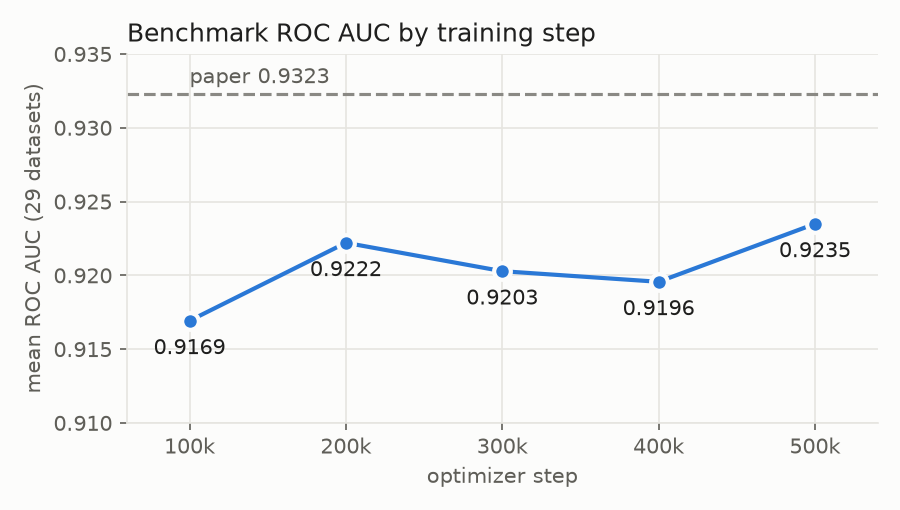
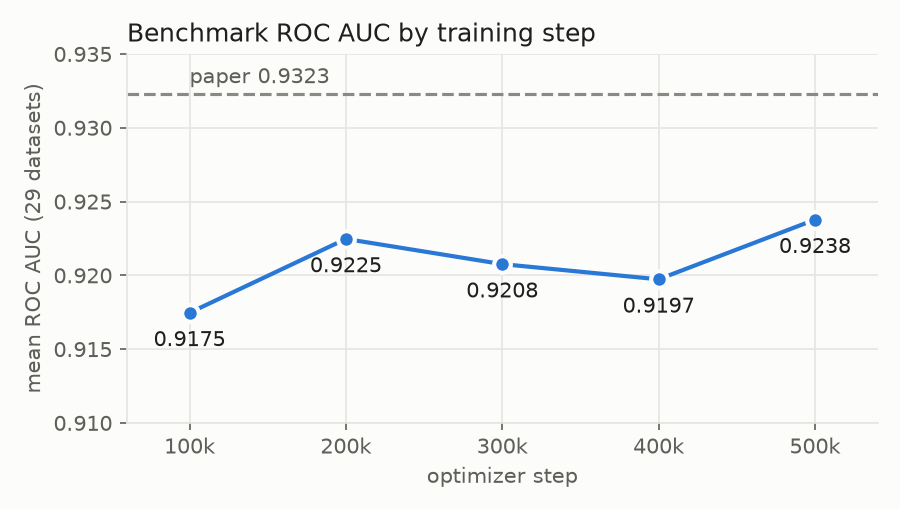
tabpfn_v2: one-hot encoding of categorical columns in inference, default all (#21)
Adds the paper's sixth per-member preprocessing step as an inference option (off/power/all), with all as the default for both estimators and the expanded width capped at 160 columns. The benchmark reports the default mode; --one-hot off,power,all adds per-mode results without choosing among them on the test folds. The v2 classifier card is re-evaluated with one_hot=all (500k: 0.9238).

Changed region(s): [[0.2489, 0.4412, 0.8089, 0.6176], [0.8089, 0.4118, 0.9644, 0.5294], [0.1556, 0.5882, 0.2489, 0.7059]]

diff --git a/src/minipfn/tabpfn_v2/inference.py b/src/minipfn/tabpfn_v2/inference.py
@@ -11,6 +11,15 @@
 - 전처리 두 가지를 번갈아: (1) 분위수 변환한 열을 원래 열 옆에 붙이고 SVD 성분을 덧붙임,
   범주형 열은 번호를 섞음 (2) Yeo-Johnson power transform
 - 수치형 열에서 평균으로부터 표준편차 12배 밖의 값은 그 경계로 자른다
+- (`one_hot`을 주면) 범주형 열을 one-hot으로 펼친다. 논문 전처리 목록의 6번인데, 어느 멤버에 어떤
+  범주까지 쓰는지는 적혀 있지 않아 여기서 정한다: `"power"`는 power 멤버만(분위수 멤버는 번호 섞기를
+  그대로), `"all"`은 모든 멤버. 범주가 `MAX_ONE_HOT_CATEGORIES`개 넘는 열은 번호로 둔다.
+  펼친 뒤 열 수가 `MAX_ONE_HOT_WIDTH`(prior의 최대 feature 수)를 넘으면 범주가 많은 열부터 번호로
+  되돌린다. 범주가 2개면 열 하나(0/1)로 둔다. 결측과 학습에 없던 범주(번호로 바꿀 때 결측이 된다)는
+  NaN. 기본값 `DEFAULT_ONE_HOT`은 분류·회귀 모두 `"all"`이다. 세 모드(off·power·all)를 benchmark에서
+  견줬을 때 분류는 suite 평균 ROC AUC(500k 0.9235 → 0.9238), 회귀는 one-hot으로 결과가 바뀌는
+  11개에서 off 대비 RMSE 비율의 기하평균(QK-clip 200k, power 0.964, all 0.958)이 가장 좋았다.
+  회귀의 neg RMSE 단순 평균은 RMSE가 수만인 MIP-2016 하나가 정해서 기준으로 쓰지 않았다
 - 분류: logit을 온도 0.9로 나눠 softmax한 뒤 멤버 평균
 - 회귀: y를 z-정규화하고, 멤버 절반은 y에도 power transform을 한다. 예측 분포는 구간 경계만
   역변환해 공통 경계로 옮긴 뒤 평균한다
@@ -46,8 +55,13 @@ from sklearn.preprocessing import (
 )
 
 from minipfn.tabpfn_v2.model import TabPFNv2
+from minipfn.tabpfn_v2.prior import MAX_FEATURES
 
 OUTLIER_SIGMA = 12.0
+MAX_ONE_HOT_CATEGORIES = 20  # benchmark의 socmob(17개)은 펼치고 colleges(수천 개)는 번호로 둔다
+MAX_ONE_HOT_WIDTH = MAX_FEATURES  # 펼친 뒤 열 수의 상한: 학습 때 본 feature 수를 넘지 않게
+ONE_HOT_MODES = ("off", "power", "all")
+DEFAULT_ONE_HOT = "all"
 SOFTMAX_TEMPERATURE = 0.9
 
 
@@ -76,12 +90,34 @@ def _apply_encoder(df: pd.DataFrame, cat_ix: list[int], encoder: Any) -> np.ndar
     return out
 
 
+def _one_hot_width(n: int) -> int:
+    return 1 if n == 2 else n  # 범주 2개는 0/1 열 하나
+
+
+def _one_hot_sizes(n_categories: dict[int, int], n_features: int) -> dict[int, int]:
+    """one-hot으로 펼칠 열과 그 범주 수.
+
+    범주가 `MAX_ONE_HOT_CATEGORIES`개 이하인 열을 펼친다. 펼친 뒤 열 수(원래 열 기준)가
+    `MAX_ONE_HOT_WIDTH`를 넘으면 범주가 많은 열부터 번호로 되돌린다 (열 수가 늘지 않는 범주 2개 이하
+    열은 그대로 펼친다).
+    """
+    sizes = {i: n for i, n in n_categories.items() if n <= MAX_ONE_HOT_CATEGORIES}
+    width = n_features + sum(_one_hot_width(n) - 1 for n in sizes.values())
+    wide = [i for i in sizes if _one_hot_width(sizes[i]) > 1]
+    for i in sorted(wide, key=lambda i: -sizes[i]):
+        if width <= MAX_ONE_HOT_WIDTH:
+            break
+        width -= _one_hot_width(sizes.pop(i)) - 1
+    return sizes
+
+
 @dataclass
 class _Member:
     kind: str  # "quantile" | "power"
     class_permutation: np.ndarray | None
     target_power: bool
     seed: int
+    one_hot: bool = False
 
 
 class _MemberPreprocessor:
@@ -100,12 +136,17 @@ class _MemberPreprocessor:
         X = self._clip(X)
         num_ix = [i for i in range(X.shape[1]) if i not in self.cat_ix]
         self.num_ix = num_ix
+        # 범주형 열의 번호는 0부터 (학습 행의 범주 수 - 1)까지다
+        n_categories = {
+            i: int(np.nanmax(X[:, i])) + 1 if np.isfinite(X[:, i]).any() else 1 for i in self.cat_ix
+        }
+        self.one_hot_sizes = _one_hot_sizes(n_categories, X.shape[1]) if self.member.one_hot else {}
         self.cat_maps = {}
         if self.member.kind == "quantile":
-            # 범주형 열: 번호를 섞는다 (분위수 멤버만)
+            # 범주형 열: 번호를 섞는다 (분위수 멤버만, one-hot으로 펼치는 열은 빼고)
             for i in self.cat_ix:
-                n = int(np.nanmax(X[:, i])) + 1 if np.isfinite(X[:, i]).any() else 1
-                self.cat_maps[i] = rng.permutation(n)
+                if i not in self.one_hot_sizes:
+                    self.cat_maps[i] = rng.permutation(n_categories[i])
             n_quantiles = max(min(X.shape[0] // 10, 1000), 2)
             self.transformer = QuantileTransformer(
                 n_quantiles=n_quantiles, random_state=self.member.seed
@@ -144,8 +185,24 @@ class _MemberPreprocessor:
             with np.errstate(all="ignore"):
                 transformed[:, self.num_ix] = self.transformer.transform(X[:, self.num_ix])
         if self.member.kind == "quantile":
-            return np.concatenate([X, transformed[:, self.num_ix]], axis=1)  # 원래 열 + 분위수 열
-        return transformed
+            out = np.concatenate([X, transformed[:, self.num_ix]], axis=1)  # 원래 열 + 분위수 열
+        else:
+            out = transformed
+        if not self.one_hot_sizes:
+            return out
+        # 번호 열을 빼고 one-hot 열을 뒤에 붙인다 (앞 d개 열이 원래 열 순서라 위치가 같다)
+        keep = [j for j in range(out.shape[1]) if j not in self.one_hot_sizes]
+        blocks = [self._one_hot(X[:, i], n) for i, n in self.one_hot_sizes.items()]
+        return np.concatenate([out[:, keep], *blocks], axis=1)
+
+    @staticmethod
+    def _one_hot(codes: np.ndarray, n: int) -> np.ndarray:
+        # 결측과 범위 밖 번호는 NaN: 번호 열과 똑같이 결측으로 본다
+        known = np.isfinite(codes) & (codes >= 0) & (codes < n)
+        block = np.full((len(codes), n), np.nan)
+        block[known] = 0.0
+        block[np.flatnonzero(known), codes[known].astype(int)] = 1.0
+        return block[:, 1:] if n == 2 else block
 
     def transform(self, X: np.ndarray, rng: np.random.Generator) -> np.ndarray:
         base = self._base(self._clip(X))
@@ -163,9 +220,13 @@ class _Base:
         *,
         n_estimators: int,
         categorical_features_indices: list[int] | None = None,
+        one_hot: str = DEFAULT_ONE_HOT,
         device: str = "cpu",
         random_state: int = 0,
     ) -> None:
+        if one_hot not in ONE_HOT_MODES:
+            raise ValueError(f"one_hot은 {ONE_HOT_MODES} 가운데 하나여야 한다: {one_hot}")
+        self.one_hot = one_hot
         self.model = model
         self.n_estimators = n_estimators
         self.categorical_features_indices = categorical_features_indices
@@ -173,6 +234,8 @@ class _Base:
         self.random_state = random_state
 
     def _fit_members(self, X: Any, members: list[_Member]) -> None:
+        for m in members:
+            m.one_hot = self.one_hot == "all" or (self.one_hot == "power" and m.kind == "power")
         X_num, self.cat_ix_, self.encoder_ = _to_numeric(X, self.categorical_features_indices)
         self.preprocessors_ = [_MemberPreprocessor(m, self.cat_ix_).fit(X_num) for m in members]
         # 학습 행의 변환 결과는 바뀌지 않으므로 멤버마다 한 번만 계산해 둔다
@@ -283,7 +346,12 @@ def _bucket_values(borders: torch.Tensor, u_train: np.ndarray) -> np.ndarray:
 
 class TabPFNv2Regressor(_Base):
     def __init__(
-        self, model: TabPFNv2, borders: torch.Tensor, *, n_estimators: int = 8, **kwargs: Any
+        self,
+        model: TabPFNv2,
+        borders: torch.Tensor,
+        *,
+        n_estimators: int = 8,
+        **kwargs: Any,
     ) -> None:
         super().__init__(model, n_estimators=n_estimators, **kwargs)
         self.borders = borders.float().cpu()  # 계산할 때만 장치로 옮기고, 결과는 CPU로 돌려준다

diff --git a/tests/test_tabpfn_v2.py b/tests/test_tabpfn_v2.py
@@ -2,6 +2,7 @@
 
 import numpy as np
 import pandas as pd
+import pytest
 import torch
 from sklearn.datasets import load_breast_cancer, load_diabetes
 
@@ -175,6 +176,67 @@ def test_outlier_clip_leaves_categorical_codes_alone():
     assert prep.upper[0] == np.inf and len(prep.cat_maps[0]) == 51
     codes = prep._base(prep._clip(x))[:, 0]
     assert len(np.unique(codes[:3])) == 1 and codes[0] != codes[3]  # 50은 다른 범주와 섞이지 않는다
+
+
+def test_one_hot_expands_small_categorical_columns_only():
+    from minipfn.tabpfn_v2.inference import _Member, _MemberPreprocessor
+
+    rng = np.random.default_rng(0)
+    x = np.stack(
+        [
+            rng.integers(0, 3, 200),
+            rng.integers(0, 2, 200),
+            rng.integers(0, 30, 200),
+            rng.normal(size=200),
+        ],
+        axis=1,
+    ).astype(float)
+    x[0, 0] = np.nan
+    member = _Member(kind="power", class_permutation=None, target_power=False, seed=0, one_hot=True)
+    prep = _MemberPreprocessor(member, cat_ix=[0, 1, 2]).fit(x)
+    assert prep.one_hot_sizes == {0: 3, 1: 2}  # 범주 30개 열은 번호로 둔다
+    base = prep._base(prep._clip(x))
+    assert base.shape[1] == 2 + 3 + 1  # 번호 열 1개 + 수치 1개, 3범주 → 3열, 2범주 → 1열
+    block = base[:, 2:5]
+    assert np.isnan(block[0]).all()  # 결측은 NaN
+    assert np.array_equal(block[1:].argmax(1), x[1:, 0]) and (block[1:].sum(1) == 1).all()
+    assert np.array_equal(base[:, 5], x[:, 1])
+    out = prep.transform(x, np.random.default_rng(1))
+    assert out.shape == (200, base.shape[1] + 1)  # 샘플 식별자 열
+
+
+def test_one_hot_width_is_capped_by_reverting_the_widest_columns():
+    from minipfn.tabpfn_v2.inference import MAX_ONE_HOT_WIDTH, _one_hot_sizes
+
+    # 범주 20개 열 8개 + 범주 2개 열 10개 + 수치 열 2개: 펼치면 2 + 160 + 10 = 172열
+    n_categories = {i: 20 for i in range(8)} | {i: 2 for i in range(8, 18)}
+    sizes = _one_hot_sizes(n_categories, n_features=20)
+    assert sum(1 if n == 2 else n for n in sizes.values()) + 2 <= MAX_ONE_HOT_WIDTH
+    assert len([n for n in sizes.values() if n == 20]) == 7 and 0 not in sizes  # 하나만 되돌린다
+    assert all(i in sizes for i in range(8, 18))  # 열 수가 늘지 않는 2범주 열은 그대로
+    # 원래 열이 이미 상한보다 많으면 열 수를 늘리는 펼침은 하지 않는다
+    assert _one_hot_sizes({0: 5, 1: 2}, n_features=MAX_ONE_HOT_WIDTH + 1) == {1: 2}
+
+
+def test_one_hot_out_of_range_codes_are_missing():
+    from minipfn.tabpfn_v2.inference import _MemberPreprocessor
+
+    block = _MemberPreprocessor._one_hot(np.array([0.0, 2.0, 3.0, np.nan, -1.0]), 3)
+    assert np.array_equal(block[:2], [[1, 0, 0], [0, 0, 1]])
+    assert np.isnan(block[2:]).all()  # 범위 밖과 결측은 번호 열처럼 결측
+
+
+@pytest.mark.parametrize("one_hot", ["off", "power", "all"])
+def test_estimators_run_with_one_hot(one_hot):
+    rng = np.random.default_rng(0)
+    df = pd.DataFrame({"a": rng.choice(list("xyz"), 80), "b": rng.normal(size=80)})
+    y = (df["b"] > 0).astype(int).to_numpy()
+    clf = TabPFNv2Classifier(_tiny_model(), one_hot=one_hot).fit(df[:60], y[:60])
+    assert clf.predict_proba(df[60:]).shape == (20, 2)
+    reg = TabPFNv2Regressor(_tiny_model(n_out=32), torch.linspace(-4, 4, 33), one_hot=one_hot)
+    assert reg.fit(df[:60], df["b"][:60]).predict(df[60:]).shape == (20,)
+    with pytest.raises(ValueError, match="one_hot"):
+        TabPFNv2Classifier(_tiny_model(), one_hot="half")
 
 
 def test_predict_is_repeatable_and_regressor_keeps_borders_on_cpu():

diff --git a/tests/test_tabpfn_v2_benchmark.py b/tests/test_tabpfn_v2_benchmark.py
@@ -39,3 +39,32 @@ def test_unknown_task_ids_are_reported():
     assert script.selected_tasks(argparse.Namespace(suite="all", tasks="359955")) == [
         ("classification", 359955)
     ]
+
+
+def test_one_hot_modes_are_parsed_and_headline_is_the_default_mode():
+    script = _eval_script()
+    assert script.parse_args([]).one_hot == ["all"]
+    assert script.parse_args(["--one-hot", "all,off,all"]).one_hot == ["all", "off"]
+    with pytest.raises(SystemExit):
+        script.parse_args(["--one-hot", "half"])
+    assert script.headline_mode(["off", "power", "all"]) == "all"  # 고르지 않고 기본값
+    assert script.headline_mode(["power", "off"]) == "power"
+
+
+def test_expands_one_hot_needs_a_small_categorical_column():
+    import types
+
+    import pandas as pd
+
+    script = _eval_script()
+
+    def task(X, cat):
+        return types.SimpleNamespace(X=pd.DataFrame(X), categorical_indices=cat)
+
+    many = [f"c{i}" for i in range(30)]
+    assert not script.expands_one_hot(task({"a": [1.0] * 30}, []))
+    assert script.expands_one_hot(task({"a": [0, 1, 2] * 10}, [0]))
+    assert script.expands_one_hot(task({"a": list("xyz") * 10}, []))  # 문자열 열도 범주형
+    assert not script.expands_one_hot(task({"a": many}, []))  # 범주가 많으면 번호로 둔다
+    wide = {f"c{i}": [0, 1, 2] * 10 for i in range(200)}
+    assert not script.expands_one_hot(task(wide, list(range(200))))  # 폭 상한에 걸려 펼치지 않는다

diff --git a/hub/minipfn-tabpfn-v2-classifier/README.md b/hub/minipfn-tabpfn-v2-classifier/README.md
@@ -28,7 +28,7 @@ This is not the official TabPFN v2 checkpoint, and it uses no official code or w
   - Beta(0.95, 8.0) features scaled to 1–160
   - fewer than 75,000 cells per table
   - in 30% of the tables, values go missing at random at a rate of 0–30%
-- Inference (paper defaults): an ensemble of 4 members. Each member shuffles features and classes and adds a random row-identifier column. Members alternate between quantile features plus SVD components and a Yeo-Johnson power transform. Softmax temperature is 0.9.
+- Inference (paper defaults): an ensemble of 4 members. Each member shuffles features and classes and adds a random row-identifier column. Members alternate between quantile features plus SVD components and a Yeo-Johnson power transform. Categorical columns with at most 20 categories are one-hot encoded in every member (`one_hot="all"`, the default), as long as the table stays within 160 columns. Softmax temperature is 0.9.
 
 ## Training
 
@@ -44,16 +44,16 @@ Figures and numbers on this card come from checkpoint `runs:/a1df9e34774d49e7869
 
 ## Results
 
-The benchmark is the paper's 29 AMLB classification datasets. Each score is the mean ROC AUC over the 10 OpenML folds. Paper values come from Supplementary Table 1 (TabPFN v2, default settings).
+The benchmark is the paper's 29 AMLB classification datasets. Each score is the mean ROC AUC over the 10 OpenML folds. Paper values come from Supplementary Table 1 (TabPFN v2, default settings). All figures use the default inference settings (`one_hot="all"`). The last column keeps categorical columns as ordinal codes (`one_hot="off"`); only the 9 datasets with categorical columns differ.
 
-| Checkpoint | Mean ROC AUC |
-| --- | --- |
-| 100k steps | 0.9169 |
-| 200k steps | 0.9222 |
-| 300k steps | 0.9203 |
-| 400k steps | 0.9196 |
-| **500k steps (this model)** | **0.9235** |
-| Paper | 0.9323 |
+| Checkpoint | Mean ROC AUC | With `one_hot="off"` |
+| --- | --- | --- |
+| 100k steps | 0.9175 | 0.9169 |
+| 200k steps | 0.9225 | 0.9222 |
+| 300k steps | 0.9208 | 0.9203 |
+| 400k steps | 0.9197 | 0.9196 |
+| **500k steps (this model)** | **0.9238** | 0.9235 |
+| Paper | 0.9323 | |
 
 ![Benchmark ROC AUC by step](images/benchmark_by_step.png)
 
@@ -97,6 +97,8 @@ proba = clf.predict_proba(x_test)  # (n_test, n_classes), columns in clf.classes
 uv run python scripts/tabpfn_v2/eval.py --suite classification \
   --classifier-path hf://aiden-jeon/minipfn-tabpfn-v2-classifier
 ```
+
+Add `--one-hot off,power,all` to also score the other one-hot modes. The headline numbers stay those of the default mode.
 
 ## Files
 
